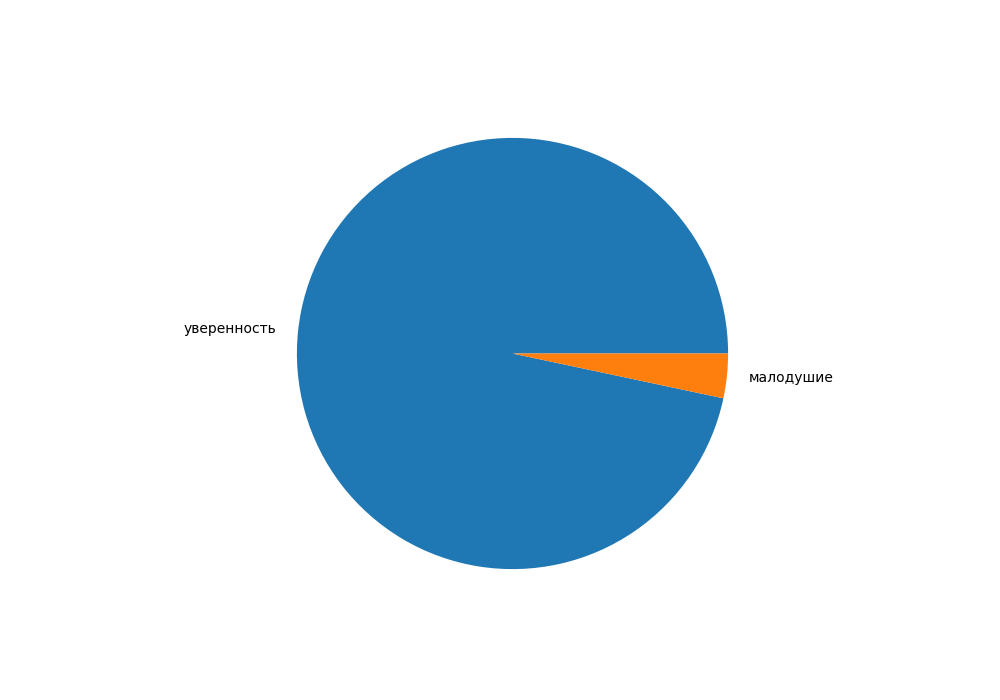
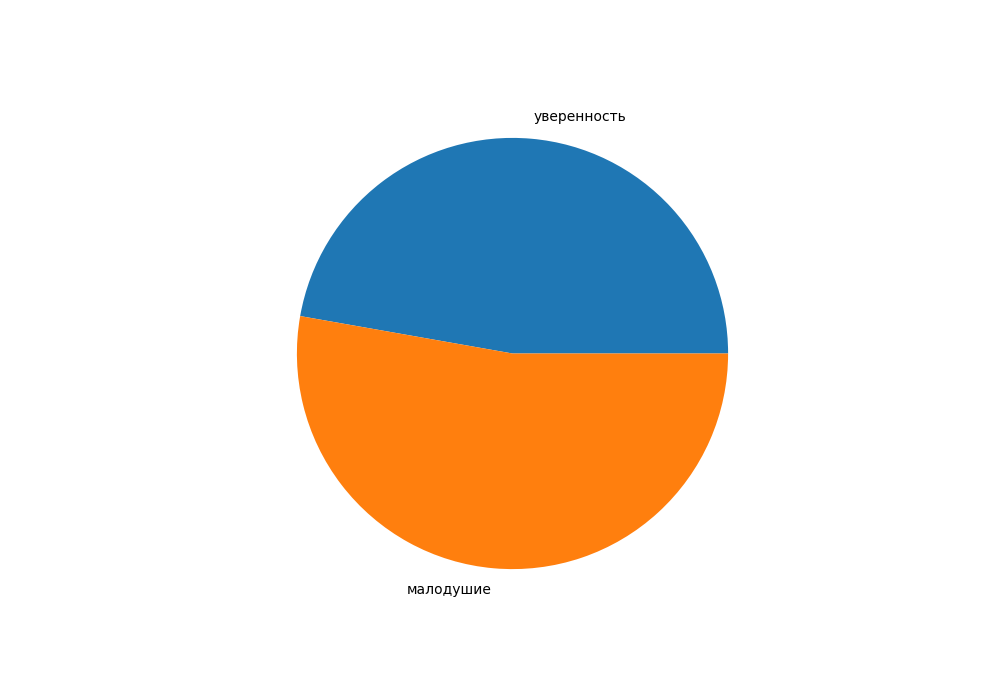
пкиоаппкапрвпрвпрвпр

diff --git a/bot.py b/bot.py
@@ -11,11 +11,6 @@ token = c.put("TELEGRAM_TOKEN")
 openai.api_key = c.put("openai_token")
 bot = telebot.TeleBot(token)
 
-
-global finished # завершен тест или нет
-finished = False
-global back_q
-back_q = False
 gate = [0, 6]   # варианты ответов
 
 
@@ -35,6 +30,8 @@ def start(message):
     global finished
     currentQuestion = 0
     finished = False
+    global back_q
+    back_q=False
     # global gpt_running
     # gpt_running = False
 
@@ -55,7 +52,7 @@ def start(message):
 
     # отправляем текущий вопрос
     bot.send_message(message.chat.id, t[0])
-    c.push(str(message.chat.id), [currentQuestion, [], finished])
+    c.push(str(message.chat.id),[currentQuestion,[],finished,back_q])
 
 
 @bot.message_handler(commands=["info"])
@@ -74,10 +71,9 @@ def info(message):
 # возвращаемся к вопросу
 @bot.message_handler(commands=['back'])
 def back(message):
-    global finished
-    global back_q
     currentQuestion = c.put(str(message.chat.id))[0]
-
+    user_ans=c.put(str(message.chat.id))[1]
+    finished=c.put(str(message.chat.id))[2]
     if currentQuestion == 0:
         bot.send_message(
             message.chat.id,
@@ -90,47 +86,63 @@ def back(message):
         message.chat.id,
         f"Введите номер вопроса, к которому хотите вернуться"
     )
-    back_q = True
+    back_q=True
+    c.push(str(message.chat.id),[currentQuestion,user_ans,finished,back_q])
+
+
+
+
+def reisastestSum(message):
+    u = c.put(str(message.chat.id))[1]
+    first=u[2]+u[5]+u[6]+u[7]+u[9]+u[17]+u[19]+u[20]+u[21]+u[24]+u[26]+u[27]+u[28]
+    second=u[0]+u[1]+u[3]+u[4]+u[8]+u[10]+u[11]+u[12]+u[13]+u[14]+u[15]+u[16]+u[18]+u[22]+u[23]+u[25]+u[29]
+    resSum=first+72-second
+    return resSum
 
 
 def finish_test(message):
-        user_ans = c.put(str(message.chat.id))[1]
         max_val = len(t) * gate[1]
-
+        resSum=reisastestSum()
         # генерация и отправка диаграммы
-        diagramGenerator.Diagram().bebra([sum(user_ans), max_val - sum(user_ans)])
+        diagramGenerator.Diagram().bebra(resSum,max_val - resSum)
         photo = open("bebra.png", "rb")
         bot.send_photo(message.chat.id, photo)
 
         # отправлялка советов
 
-        if sum(user_ans) < max_val / 3:
+        if 0<=resSum<=24:
             bot.send_message(
                 message.chat.id,
-                f"Небольшой совет: вы сможете достичь больших высот, если будете вести себя увереннее ;)"
+                "очень неуверен в себе"
             )
-        if max_val / 3 <= sum(user_ans) < max_val / 3 * 2:
+        if 25 <= resSum <=48 :
             bot.send_message(
                 message.chat.id,
-                "Вы превосходно сбалансированы в вопросе своей уверенности, нам даже нечего рекомендовать ;)"
+                "скорее не уверен, чем уверен"
             )
-        if max_val / 3 * 2 <= sum(user_ans):
+        if 49 <= resSum <=72:
             bot.send_message(
-                message.chat.id,
-                f"Вы крайне уверены в себе, Вам может это показаться приятным, но, к сожалению, "
-                f"иногда Ваше поведение может быть агрессивным и вызывать раздражение у окружающих. "
-                f"Выводы можете делать сами ;)"
-            )
+                message.chat.id,"среднее значение уверенности")
+        if 73 <= resSum <= 96:
+            bot.send_message(
+                message.chat.id, "уверен в себе")
+        if 97 <= resSum <=120:
+            bot.send_message(
+                message.chat.id,"слишком самоуверен")
 
         # обнуляем текущий вопрос и удаляем тест из списка ожидающих прохождение
-        c.push(str(message.chat.id), [0, 0, [], True])
+        currentQuestion=0
+        user_ans=[]
+        finished=True
+        back_q=False
+        c.push(str(message.chat.id),[currentQuestion,user_ans,finished,back_q])
 
 
 def next_query(message):
-    global back_q
+    finished=False
     currentQuestion = c.put(str(message.chat.id))[0] + 1
     user_ans = c.put(str(message.chat.id))[1]
-
+    back_q=c.put(str(message.chat.id))[3]
     if back_q:
         bot.send_message(message.chat.id, t[currentQuestion - 1])
         return
@@ -146,7 +158,7 @@ def next_query(message):
                 while len(user_ans) < currentQuestion:
                     user_ans.append(0)
                 user_ans[currentQuestion - 1] = text
-                c.push(str(message.chat.id), [currentQuestion, user_ans, finished])
+                c.push(str(message.chat.id),[currentQuestion,user_ans,finished,back_q])
                 # bot.send_message(message.chat.id, str(sum(user_ans)))
                 print(sum(user_ans))
             if currentQuestion < len(t):
@@ -157,34 +169,33 @@ def next_query(message):
         else:
             bot.send_message(message.chat.id, f"шкала от {gate[0]} до {gate[1]}")
             bot.send_message(message.chat.id, t[currentQuestion - 1])
-            c.push(str(message.chat.id), [currentQuestion - 1, user_ans, finished])
+            currentQuestion-=1
+            c.push(str(message.chat.id),[currentQuestion,user_ans,finished,back_q])
     else:
         # если ответ не является числом, говорим об этом юзеру
         bot.send_message(message.chat.id, "Я не могу понять твой ответ :(")
-        bot.send_message(message.chat.id, t[currentQuestion - 1])
-        c.push(str(message.chat.id), [currentQuestion - 1, user_ans, finished])
+        currentQuestion -= 1
+        bot.send_message(message.chat.id, t[currentQuestion])
+        c.push(str(message.chat.id),[currentQuestion,user_ans,finished,back_q])
 
 
 # принимаем ответ
 @bot.message_handler(content_types=["text"])
 def lalal(message):
-    global finished
-    global back_q
     currentQuestion = c.put(str(message.chat.id))[0]
     user_ans = c.put(str(message.chat.id))[1]
-    print(str(message.chat.id), message.text, currentQuestion, back_q)
-    print(user_ans)
-
+    back_q=c.put(str(message.chat.id))[3]
+    finished=False
     if back_q:
         if message.text.isdigit():
             text = int(message.text)
             if 1 <= text <= currentQuestion:
-                currentQuestion = text - 1
+                currentQuestion = text - 2
                 user_ans = user_ans[:currentQuestion]
-                c.push(str(message.chat.id), [currentQuestion, user_ans, finished])
                 # bot.send_message(message.chat.id, t[currentQuestion - 1])
-                next_query(message)
                 back_q = False
+                c.push(str(message.chat.id), [currentQuestion, user_ans, finished, back_q])
+                next_query(message)
                 return
             else:
                 bot.send_message(
